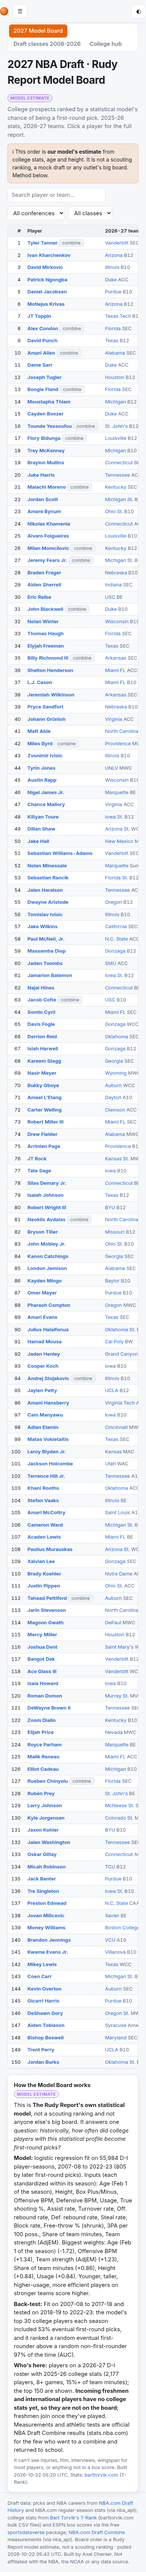
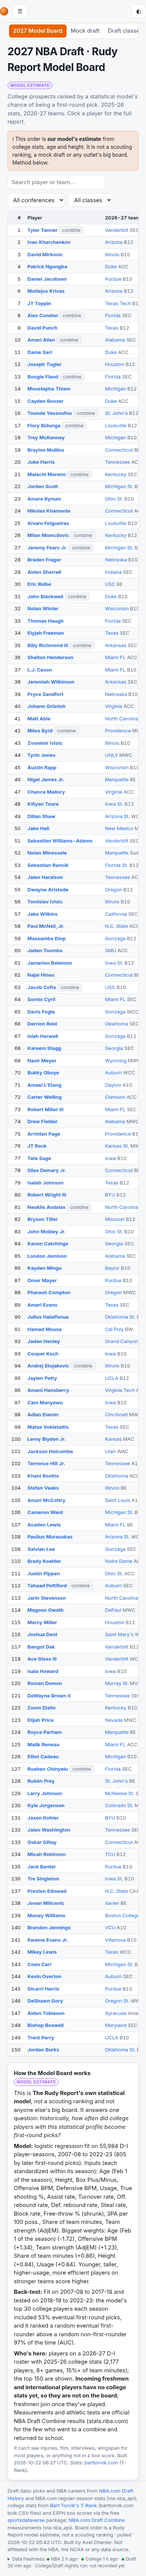
Site-wide Data freshness line in the footer (NBA/College/Draft ages, expandable per-dataset table, last nightly run step results); update_college.py records each step to data/college/freshness.json via pipeline/college_freshness.py

Changed region(s): [[0.0308, 0.0, 0.9538, 1.0], [0.5538, 0.5911, 0.5846, 0.6222]]

diff --git a/js/freshness.js b/js/freshness.js
@@ -1,0 +1,40 @@
+// freshness.js - the "Data freshness" line in the site footer: when each section's data was last refreshed, so a missed
+// nightly job is easy to spot. Reads data/meta.json (NBA), data/reports/index.json (NBA reports) and
+// data/college/freshness.json (College/Draft datasets + the steps of the last nightly update_college.py run).
+import { esc } from "./ui.js";
+
+const get = (p) => fetch(p, { cache: "no-cache" }).then((r) => r.ok ? r.json() : null).catch(() => null);
+const parse = (s) => { const m = /^(\d{4}-\d{2}-\d{2})[ T](\d{2}:\d{2})/.exec(s || ""); return m ? new Date(`${m[1]}T${m[2]}:00Z`) : null; };
+const ago = (d) => {
+  if (!d) return "unknown";
+  const h = (Date.now() - d) / 36e5;
+  return h < 1 ? `${Math.max(1, Math.round(h * 60))} min ago` : h < 36 ? `${Math.round(h)} h ago` : `${Math.round(h / 24)} days ago`;
+};
+// fresh = within ~a nightly cycle; late = one run missed; old = two or more.
+const level = (d) => !d ? "old" : (Date.now() - d) / 36e5 < 30 ? "fresh" : (Date.now() - d) / 36e5 < 54 ? "late" : "old";
+const dot = (d) => `<span class="fr-dot fr-${level(d)}" title="${{ fresh: "Refreshed in the last 30 hours", late: "Older than 30 hours: one nightly run may have been missed", old: "Older than 54 hours (or unknown)" }[level(d)]}"></span>`;
+
+export async function renderFreshness() {
+  const el = document.getElementById("freshness");
+  if (!el) return;
+  const [nba, nbaRep, col] = await Promise.all([get("data/meta.json"), get("data/reports/index.json"), get("data/college/freshness.json")]);
+  const ci = Object.fromEntries((col?.items || []).map((x) => [x.key, x]));
+  const rows = [
+    ["NBA", "NBA current-season stats (NBA.com)", nba?.current_pulled_at_utc || nba?.pulled_at_utc],
+    ["NBA", "NBA all seasons (full pull)", nba?.pulled_at_utc],
+    ["NBA", "NBA reports", nbaRep?.generated_at],
+    ...(col?.items || []).map((x) => [x.key.startsWith("draft") ? "Draft" : "College", x.label, x.updated_utc]),
+  ].map(([g, l, s]) => ({ g, l, s, d: parse(s) }));
+  const group = (g, key) => { const r = key ? rows.find((x) => x.l === key) : null; const d = r ? r.d : rows.filter((x) => x.g === g).map((x) => x.d).sort((a, b) => (a || 0) - (b || 0))[0]; return { g, d }; };
+  const heads = [group("NBA", "NBA current-season stats (NBA.com)"), { g: "College", d: ci.college ? parse(ci.college.updated_utc) : null },
+    { g: "Draft", d: parse(ci.draft_board?.updated_utc) }];
+  const steps = col?.steps || [];
+  const failed = steps.filter((s) => !s.ok);
+  const run = col?.last_run_utc ? `College/Draft nightly run ${ago(parse(col.last_run_utc))}: ${failed.length ? `<b class="fr-bad">${failed.length} step${failed.length > 1 ? "s" : ""} failed</b>` : "all steps OK"}` : "College/Draft nightly run: not recorded yet";
+  el.innerHTML = `<details class="fr"><summary>Data freshness: ${heads.map((h) => `${dot(h.d)}${h.g} ${ago(h.d)}`).join(" · ")} · ${run}</summary>
+    <div class="table-wrap"><table class="data fr-table"><thead><tr><th class="left">Section</th><th class="left">Data</th><th class="left">Last refreshed (UTC)</th><th class="left">Age</th></tr></thead><tbody>
+    ${rows.map((r) => `<tr><td class="left">${r.g}</td><td class="left">${dot(r.d)}${esc(r.l)}</td><td class="left">${esc(r.s || "–")}</td><td class="left">${ago(r.d)}</td></tr>`).join("")}</tbody></table></div>
+    ${steps.length ? `<p class="small">Last College/Draft nightly run (${esc(col.last_run_utc)} UTC): ${steps.map((s) => `${s.ok ? "✓" : "✗"} ${esc(s.step)}${s.ok ? "" : ` <span class="fr-bad">(${esc(s.note || "failed")})</span>`}`).join(" · ")}</p>` : ""}
+    <p class="small muted">Green = refreshed in the last 30 hours, amber = 30-54 hours (one nightly run may have been missed), red = older. Off-season datasets
+      (e.g. game logs May-October) only change when there is something new.</p></details>`;
+}

diff --git a/css/style.css b/css/style.css
@@ -438,3 +438,12 @@ label.bar-pick select { flex: 1 1 auto; min-width: 0; max-width: 100%; }
 .ch-table td.left { white-space: normal; min-width: 70px; }
 .ch-hit { color: var(--good, #16a34a); }
 .ch-miss { color: #c2410c; font-size: 11px; font-weight: 600; text-transform: uppercase; }
+
+/* Footer: data freshness */
+#freshness { margin-top: 6px; font-size: 12px; }
+.fr summary { cursor: pointer; color: var(--muted); }
+.fr summary:hover { color: var(--text); }
+.fr-dot { display: inline-block; width: 7px; height: 7px; border-radius: 50%; margin-right: 4px; vertical-align: middle; }
+.fr-fresh { background: #16a34a; } .fr-late { background: #d97706; } .fr-old { background: #dc2626; }
+.fr-bad { color: #dc2626; }
+.fr-table { margin-top: 6px; font-size: 12px; }

diff --git a/js/app.js b/js/app.js
@@ -31,6 +31,7 @@ import { collegeTransferPage } from "./pages/college_transfer.js";
 import { collegeLeadersPage } from "./pages/college_leaders.js";
 import { collegeHomePage } from "./pages/college_home.js";
 import { setFooter } from "./footer.js";
+import { renderFreshness } from "./freshness.js";
 
 const app = document.getElementById("app");
 
@@ -94,6 +95,7 @@ async function render() {
 
 async function start() {
   await loadMeta();
+  renderFreshness();               // footer "Data freshness" line (all sections)
 
   // Fill the season dropdown in the header.
   const select = document.getElementById("season-select");

diff --git a/index.html b/index.html
@@ -86,6 +86,7 @@
 
   <footer class="site-footer">
     <div class="wrap" id="footer-text">Loading data source…</div>
+    <div class="wrap" id="freshness"></div>
   </footer>
 
   <!-- Chart.js draws the bar and radar charts (saved locally in /vendor). -->

diff --git a/pipeline/update_college.py b/pipeline/update_college.py
@@ -595,42 +595,49 @@ def main():
 
 
 def run():
-    main()
+    steps = []                                  # what worked in this run -> data/college/freshness.json (footer "Data freshness")
+
+    def step(name, fn):
+        try:
+            fn()
+            steps.append({"step": name, "ok": True})
+        except Exception as e:  # noqa: BLE001  - one failed step shouldn't stop the others
+            print(f"WARNING: {name} failed: {e}")
+            steps.append({"step": name, "ok": False, "note": str(e)[:200]})
+
+    try:
+        main()
+        steps.append({"step": "College stats & ratings", "ok": True})
+    except Exception as e:  # noqa: BLE001
+        steps.append({"step": "College stats & ratings", "ok": False, "note": str(e)[:200]})
+        _freshness(steps)
+        raise
     # Rebuild the 2027 Draft board from the freshest stats (skipped for archive/test runs).
     if "--season" not in sys.argv and "--out" not in sys.argv:
-        import college_draft
-        college_draft.main()
+        import college_draft, college_bracket, college_nba, college_gamelogs, college_leaders, college_schedule
+        step("2027 Draft board", college_draft.main)
         # Save this year's real NCAA bracket for the Tournament Simulator once the tournament is over
         # (no network and instant outside mid-March..April, or once data/college/brackets/<year>.json exists).
-        import college_bracket
-        try:
-            college_bracket.update_current()
-        except Exception as e:  # noqa: BLE001  - a bracket hiccup shouldn't stop the reports
-            print(f"WARNING: bracket update failed: {e}")
+        step("NCAA bracket", college_bracket.update_current)
         # Draft classes 2008-2026 + college-to-NBA data (NBA.com DraftHistory, refreshed daily; NBA careers from data/careers/).
-        import college_nba
-        try:
-            college_nba.main()
-        except Exception as e:  # noqa: BLE001
-            print(f"WARNING: draft history update failed: {e}")
+        step("Draft classes + college-to-NBA", college_nba.main)
         # College player game logs for the current season (ESPN box scores; no-op May-October).
-        import college_gamelogs
-        try:
-            college_gamelogs.update_current()
-        except Exception as e:  # noqa: BLE001
-            print(f"WARNING: college game log update failed: {e}")
+        step("College game logs", college_gamelogs.update_current)
         # All-time (2007-08+) single-season and career leaderboards (local data only, ~90 KB).
-        import college_leaders
-        try:
-            college_leaders.main()
-        except Exception as e:  # noqa: BLE001
-            print(f"WARNING: college leaders update failed: {e}")
+        step("College leaders", college_leaders.main)
         # Recent results + next 7 days of D-I games for the College home page (ESPN scoreboard, ~10 small requests).
-        import college_schedule
-        try:
-            college_schedule.main()
-        except Exception as e:  # noqa: BLE001
-            print(f"WARNING: college schedule update failed: {e}")
+        step("College schedule", college_schedule.main)
+        _freshness(steps)
+        if not steps[1]["ok"]:                  # as before: a broken Draft board fails the run (the other steps only warn)
+            raise RuntimeError(f"2027 Draft board failed: {steps[1].get('note')}")
+
+
+def _freshness(steps):
+    try:
+        import college_freshness
+        college_freshness.write(steps)
+    except Exception as e:  # noqa: BLE001
+        print(f"WARNING: freshness file failed: {e}")
 
 
 if __name__ == "__main__":

diff --git a/pipeline/college_freshness.py b/pipeline/college_freshness.py
@@ -1,0 +1,63 @@
+"""
+college_freshness.py  -  data/college/freshness.json: when each College/Draft dataset was last rebuilt, and whether each step of
+the latest nightly update_college.py run worked. The site's footer "Data freshness" line reads it (plus data/meta.json for NBA).
+
+update_college.py calls write(steps) at the end of a run; running this file alone just refreshes the timestamps:
+    .venv/bin/python pipeline/college_freshness.py
+OUTPUT: data/college/freshness.json (~1-2 KB)
+"""
+import json, sys
+from datetime import datetime, timezone
+from pathlib import Path
+
+sys.path.insert(0, str(Path(__file__).resolve().parent))
+import college_fetch as cf
+
+D = cf.ROOT / "data"
+# key, label, file, timestamp field (None = file modification time)
+ITEMS = [("college", "College stats & ratings (Torvik + ESPN)", "college/meta.json", "pulled_at_utc"),
+         ("college_reports", "College reports", "college/reports/index.json", "generated_at"),
+         ("schedule", "College schedule & scores (ESPN)", "college/schedule.json", "generated_at"),
+         ("gamelogs", "College game logs (ESPN)", "college/gamelogs/index.json", None),
+         ("leaders", "College leaders", "college/leaders.json", "generated_at"),
+         ("draft_board", "2027 Draft model board", "draft/board.json", "generated_at"),
+         ("draft_history", "Draft classes + college-to-NBA", "draft/history/index.json", "generated_at")]
+
+
+def stamp(path, field):
+    p = D / path
+    if not p.exists():
+        return None
+    if field:
+        try:
+            v = json.loads(p.read_text()).get(field)
+            if v:
+                return v
+        except Exception:  # noqa: BLE001
+            pass
+    newest = max([p.stat().st_mtime] + [x.stat().st_mtime for x in p.parent.rglob("*.json")] if field is None else [p.stat().st_mtime])
+    return datetime.fromtimestamp(newest, timezone.utc).strftime("%Y-%m-%d %H:%M UTC")
+
+
+def write(steps=None):
+    old = {}
+    f = D / "college" / "freshness.json"
+    if f.exists():
+        try:
+            old = json.loads(f.read_text())
+        except Exception:  # noqa: BLE001
+            old = {}
+    out = {"items": [{"key": k, "label": l, "updated_utc": stamp(p, fld)} for k, l, p, fld in ITEMS]}
+    if steps is not None:
+        out["last_run_utc"] = datetime.now(timezone.utc).strftime("%Y-%m-%d %H:%M UTC")
+        out["steps"] = steps            # [{"step": "...", "ok": true/false, "note": "..."}]
+    else:
+        out["last_run_utc"] = old.get("last_run_utc")
+        out["steps"] = old.get("steps", [])
+    cf.write_json(f, out)
+    bad = [s["step"] for s in out["steps"] if not s.get("ok")]
+    print(f"freshness: {len(out['items'])} datasets; last run {out['last_run_utc']}; failed steps: {', '.join(bad) or 'none'}")
+
+
+if __name__ == "__main__":
+    write()

diff --git a/README.md b/README.md
@@ -280,6 +280,12 @@ scores: margin chart with a 5-game average, game table with opponent T-Rank, pos
 (points per 100 possessions, not opponent-adjusted), and splits (home/away as ESPN lists them, conference/non-conference, vs top-25
 and top-100, vs non-D-I, postseason, close games, by month). `data/college/gamelogs/<season>/teams.json` (~1.2 MB per season).
 
+**Data freshness** (site footer, every page): one line with how long ago the NBA, College and Draft data were refreshed, plus
+whether the last College/Draft nightly run's steps all worked; click it for every dataset's UTC time and age (green < 30 h,
+amber 30-54 h, red older). Reads `data/meta.json`, `data/reports/index.json` and `data/college/freshness.json`, which
+`update_college.py` writes at the end of each run via `pipeline/college_freshness.py` (~1 KB; each step is recorded as OK or failed
+with its error; a failed step now only warns, except the Draft board, which still fails the run as before).
+
 **College home** (`#/college`; the Teams list moved to `#/college/teams`): recent results and the next D-I games by day ("Top games" =
 best matchups by combined T-Rank, or all games), each with T-Ranks and a **Model estimate** win chance and margin (Game Predictor
 method, ratings of that game's season, preseason ratings before tip-off; finals show whether the favorite won), the top 25 by T-Rank,
@@ -333,6 +339,7 @@ Nightly college job (Torvik refresh + ESPN games + reports + draft board):
 | `pipeline/update_college.py` | Nightly job → `data/college/reports/` (and runs `college_draft.py`). |
 | `pipeline/college_draft.py` | Draft model + prospect reports → `data/draft/`. |
 | `pipeline/college_gamelogs.py` | College player game logs (ESPN box scores) → `data/college/gamelogs/`. |
+| `pipeline/college_freshness.py` | When each College/Draft dataset was rebuilt + the last nightly run's step results → `data/college/freshness.json` (footer "Data freshness"). |
 | `pipeline/college_schedule.py` | Recent results + next 7 days of D-I games (ESPN scoreboard) → `data/college/schedule.json` for the College home. |
 | `pipeline/college_leaders.py` | All-time single-season and career college leaderboards (2007-08+) → `data/college/leaders.json`. |
 | `pipeline/college_transfer.py` | Fits the Transfer what-if's player→team link and transfer carryover → `data/college/transfer_model.json`. |
